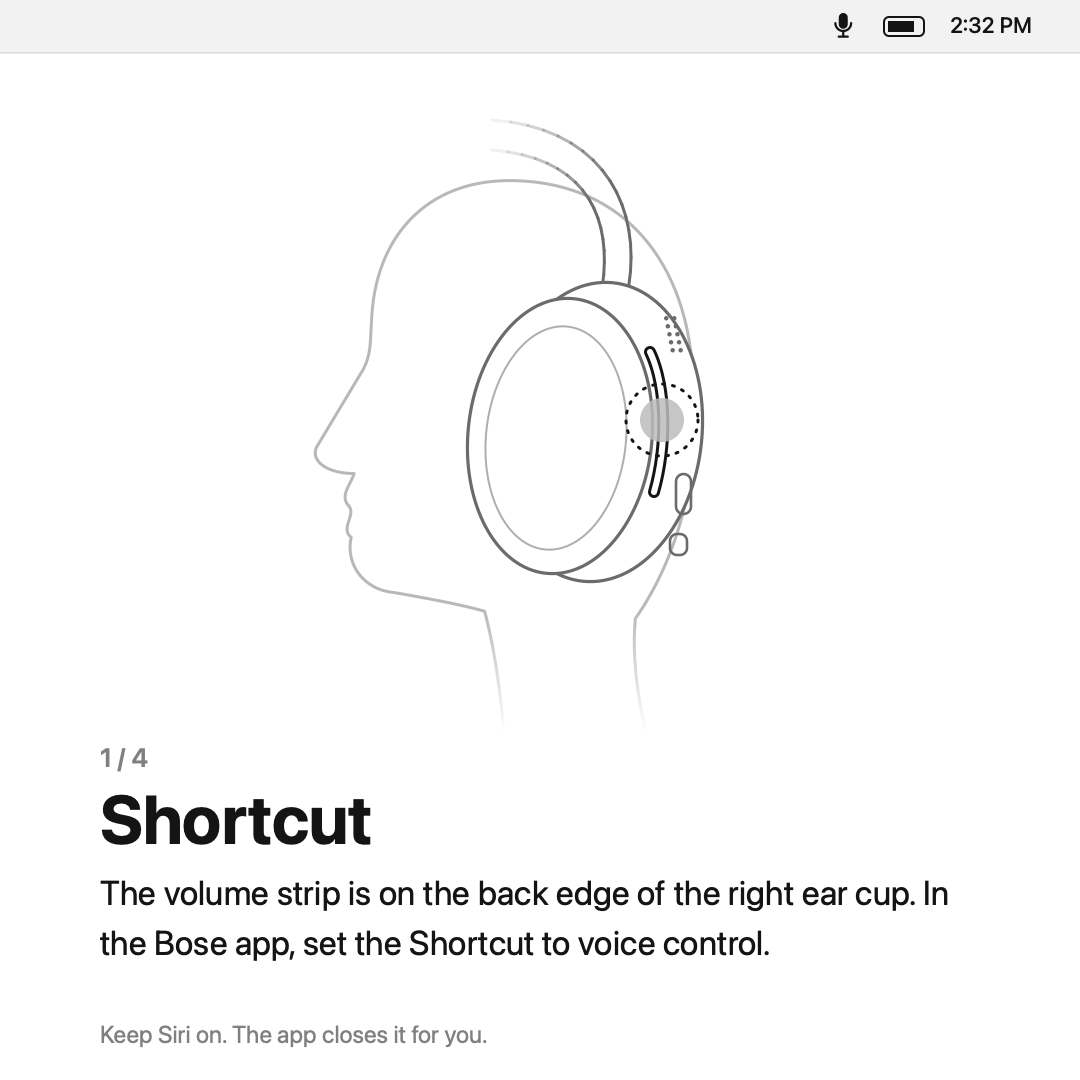
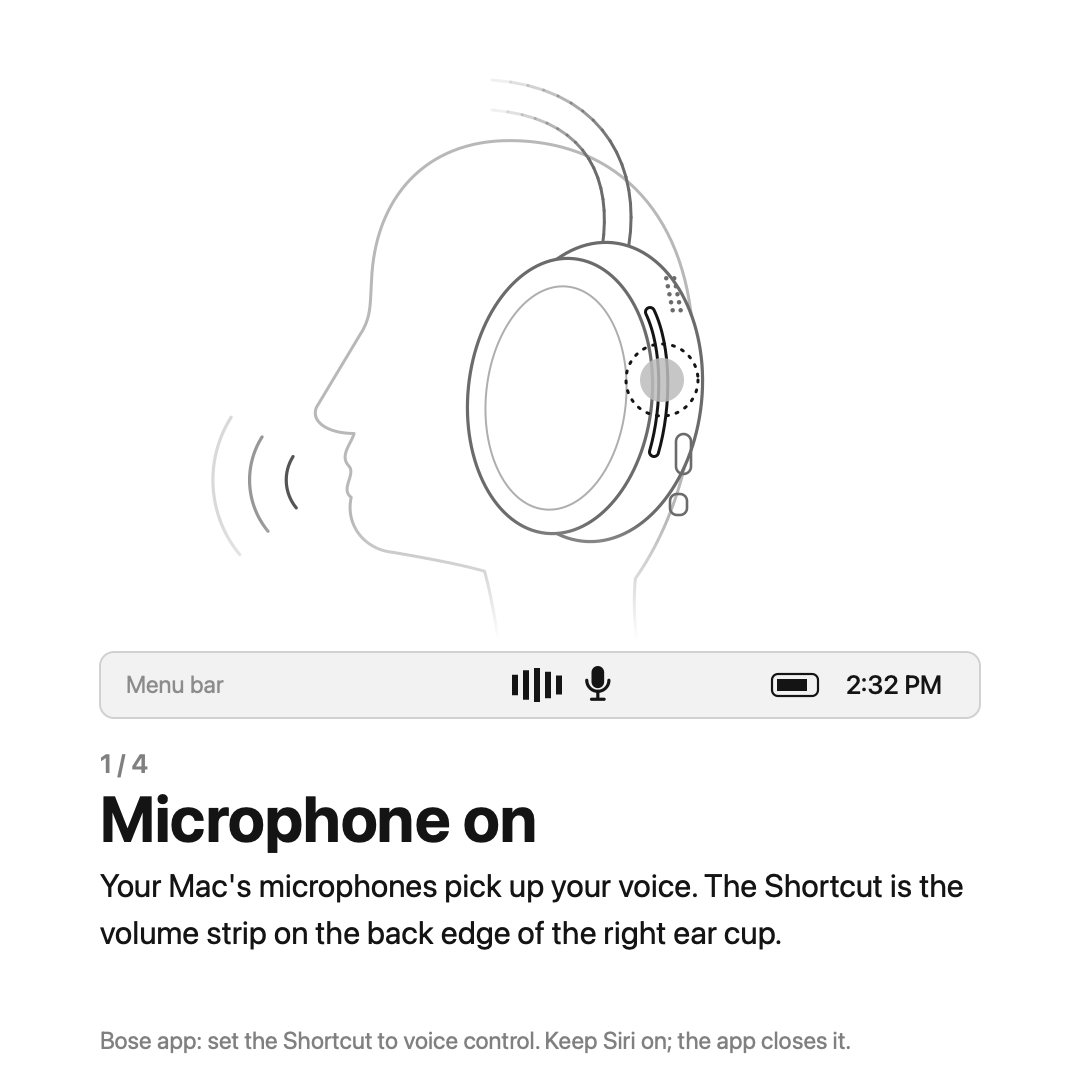
docs: tutorial shows the voice being picked up, then muted
The person keeps talking (voice waves) while the menu bar strip, now
below the art, shows a level meter and the app's mic icon. Holding the
volume strip draws a slash across the icon, MUTE appears and the meter
drops to zero although the voice continues; holding again brings it
back. The hand is now line art generated with Gemini Nano Banana 2,
composited with a transparent background.

Claude-Session: https://claude.ai/code/session_01RRxZNg9SweV9mXnf7GBAeu

diff --git a/scripts/make-tutorial.swift b/scripts/make-tutorial.swift
@@ -22,7 +22,12 @@ struct Scene {
     var cue: Cue? = nil
     var cuePhase: CGFloat = 0
     var pulse: CGFloat = 0       // touch point pulse 0...1
+    var speaking = true          // voice waves from the mouth
+    var time: CGFloat = 0        // drives the voice/level animation
+    var slash: CGFloat = 0       // 0 = mic icon intact, 1 = fully crossed out
     enum Cue { case down, up }
+    /// What the microphone picks up: follows the voice unless muted.
+    var level: CGFloat { speaking ? (1 - slash) * (0.35 + 0.65 * abs(sin(time * 1.7) * sin(time * 0.6 + 1))) : 0 }
 }
 
 let touchPoint = CGPoint(x: 662, y: 420)
@@ -116,24 +121,65 @@ func drawHeadphones(_ ctx: CGContext) {
     stroke(ctx, strip, paper, 6)
 }
 
-/// Line-art hand coming from the right, index finger at `tip`.
-func drawHand(_ ctx: CGContext, tip: CGPoint) {
-    ctx.saveGState()
-    ctx.translateBy(x: tip.x, y: tip.y)
-    ctx.saveGState()
-    ctx.translateBy(x: 160, y: 80)
-    ctx.rotate(by: 0.95)
-    stroke(ctx, CGPath(roundedRect: CGRect(x: 0, y: -50, width: 460, height: 100), cornerWidth: 46, cornerHeight: 46, transform: nil), line, 3, fill: paper)
-    ctx.restoreGState()
-    stroke(ctx, CGPath(roundedRect: CGRect(x: 78, y: -4, width: 148, height: 126), cornerWidth: 50, cornerHeight: 50, transform: nil), line, 3, fill: paper)
-    for y in [38.0, 66.0, 94.0] {
-        let k = CGMutablePath(); k.move(to: CGPoint(x: 92, y: y)); k.addLine(to: CGPoint(x: 150, y: y))
-        stroke(ctx, k, line.withAlphaComponent(0.7), 2.4)
+/// Hand drawn by Gemini "Nano Banana 2" (gemini-3.1-flash-image) as line art on white,
+/// saved in docs/images/tutorial/assets/hand-source.png. The white around it is made transparent
+/// here: flood fill from the borders, with the open forearm end closed first so the inside stays white.
+let handImage: CGImage = {
+    let src = NSImage(contentsOfFile: "docs/images/tutorial/assets/hand-source.png")!
+        .cgImage(forProposedRect: nil, context: nil, hints: nil)!
+    let w = src.width, h = src.height
+    var px = [UInt8](repeating: 0, count: w * h * 4)
+    let ctx = CGContext(data: &px, width: w, height: h, bitsPerComponent: 8, bytesPerRow: w * 4,
+                        space: CGColorSpaceCreateDeviceRGB(), bitmapInfo: CGImageAlphaInfo.premultipliedLast.rawValue)!
+    ctx.draw(src, in: CGRect(x: 0, y: 0, width: w, height: h))
+    var wall = [Bool](repeating: false, count: w * h)
+    for i in 0..<(w * h) where min(px[i * 4], px[i * 4 + 1], px[i * 4 + 2]) < 215 { wall[i] = true }
+    // close the forearm: the two outline ends (found by scanning the source image)
+    let a = CGPoint(x: 933, y: 619), b = CGPoint(x: 831, y: 820)
+    for step in 0...400 {
+        let t = CGFloat(step) / 400
+        let x = Int(a.x + (b.x - a.x) * t), y = Int(a.y + (b.y - a.y) * t)
+        for dy in -5...5 { for dx in -5...5 where (0..<w).contains(x + dx) && (0..<h).contains(y + dy) { wall[(y + dy) * w + x + dx] = true } }
     }
-    stroke(ctx, CGPath(roundedRect: CGRect(x: 104, y: -32, width: 84, height: 30), cornerWidth: 15, cornerHeight: 15, transform: nil), line, 3, fill: paper)
-    stroke(ctx, CGPath(roundedRect: CGRect(x: 0, y: -17, width: 140, height: 34), cornerWidth: 17, cornerHeight: 17, transform: nil), line, 3, fill: paper)
-    stroke(ctx, CGPath(roundedRect: CGRect(x: 8, y: -10, width: 22, height: 20), cornerWidth: 8, cornerHeight: 8, transform: nil), line.withAlphaComponent(0.6), 2)
+    var outside = [Bool](repeating: false, count: w * h)
+    var stack: [Int] = []
+    for x in 0..<w { stack.append(x); stack.append((h - 1) * w + x) }
+    for y in 0..<h { stack.append(y * w); stack.append(y * w + w - 1) }
+    while let i = stack.popLast() {
+        guard !outside[i], !wall[i] else { continue }
+        outside[i] = true
+        let x = i % w, y = i / w
+        if x > 0 { stack.append(i - 1) }; if x < w - 1 { stack.append(i + 1) }
+        if y > 0 { stack.append(i - w) }; if y < h - 1 { stack.append(i + w) }
+    }
+    for i in 0..<(w * h) where outside[i] { px[i * 4] = 0; px[i * 4 + 1] = 0; px[i * 4 + 2] = 0; px[i * 4 + 3] = 0 }
+    return CGContext(data: &px, width: w, height: h, bitsPerComponent: 8, bytesPerRow: w * 4,
+                     space: CGColorSpaceCreateDeviceRGB(), bitmapInfo: CGImageAlphaInfo.premultipliedLast.rawValue)!.makeImage()!
+}()
+let handTip = CGPoint(x: 129, y: 372)   // index fingertip in the source image
+let handScale: CGFloat = 0.5
+
+func drawHand(_ ctx: CGContext, tip: CGPoint) {
+    let size = CGSize(width: CGFloat(handImage.width) * handScale, height: CGFloat(handImage.height) * handScale)
+    let origin = CGPoint(x: tip.x - handTip.x * handScale, y: tip.y - handTip.y * handScale)
+    ctx.saveGState()
+    ctx.translateBy(x: origin.x, y: origin.y + size.height)   // the context is flipped: draw images upright
+    ctx.scaleBy(x: 1, y: -1)
+    ctx.interpolationQuality = .high
+    ctx.draw(handImage, in: CGRect(origin: .zero, size: size))
     ctx.restoreGState()
+}
+
+/// Voice coming out of the mouth: arcs that travel outwards and fade.
+func drawVoice(_ ctx: CGContext, time: CGFloat) {
+    let mouth = CGPoint(x: 330, y: 520)
+    for i in 0..<3 {
+        let phase = (time * 0.9 + CGFloat(i) / 3).truncatingRemainder(dividingBy: 1)
+        let r = 28 + phase * 110
+        let arc = CGMutablePath()
+        arc.addArc(center: mouth, radius: r, startAngle: .pi * 0.78, endAngle: .pi * 1.18, clockwise: false)
+        stroke(ctx, arc, ink.withAlphaComponent(0.85 * (1 - phase)), 3.2)
+    }
 }
 
 func drawTouchPoint(_ ctx: CGContext, scene: Scene) {
@@ -160,7 +206,7 @@ func drawCue(_ ctx: CGContext, _ cue: Scene.Cue, phase: CGFloat) {
     }
 }
 
-func micGlyph(_ ctx: CGContext, origin: CGPoint, h: CGFloat, slashed: Bool) {
+func micGlyph(_ ctx: CGContext, origin: CGPoint, h: CGFloat, slash: CGFloat) {
     let s = h / 24
     ctx.saveGState()
     ctx.translateBy(x: origin.x, y: origin.y)
@@ -173,31 +219,37 @@ func micGlyph(_ ctx: CGContext, origin: CGPoint, h: CGFloat, slashed: Bool) {
     ctx.strokePath()
     ctx.move(to: CGPoint(x: 10, y: 16)); ctx.addLine(to: CGPoint(x: 10, y: 21))
     ctx.move(to: CGPoint(x: 6, y: 21)); ctx.addLine(to: CGPoint(x: 14, y: 21)); ctx.strokePath()
-    if slashed {
-        ctx.setStrokeColor(paper.cgColor); ctx.setLineWidth(4.4)
-        ctx.move(to: CGPoint(x: 2, y: 1)); ctx.addLine(to: CGPoint(x: 18, y: 21)); ctx.strokePath()
-        ctx.setStrokeColor(ink.cgColor); ctx.setLineWidth(2.2)
-        ctx.move(to: CGPoint(x: 2, y: 1)); ctx.addLine(to: CGPoint(x: 18, y: 21)); ctx.strokePath()
+    if slash > 0 {
+        let end = CGPoint(x: 1 + 18 * slash, y: 0 + 22 * slash)
+        ctx.setStrokeColor(NSColor(white: 0.95, alpha: 1).cgColor); ctx.setLineWidth(4.6)
+        ctx.move(to: CGPoint(x: 1, y: 0)); ctx.addLine(to: end); ctx.strokePath()
+        ctx.setStrokeColor(ink.cgColor); ctx.setLineWidth(2.3)
+        ctx.move(to: CGPoint(x: 1, y: 0)); ctx.addLine(to: end); ctx.strokePath()
     }
     ctx.restoreGState()
 }
 
-/// macOS-style menu bar across the top, showing the app's status item.
-func drawMenuBar(_ ctx: CGContext, muted: Bool) {
-    ctx.setFillColor(NSColor(white: 0.95, alpha: 1).cgColor)
-    ctx.fill(CGRect(x: 0, y: 0, width: W, height: 52))
-    ctx.setFillColor(NSColor(white: 0.85, alpha: 1).cgColor)
-    ctx.fill(CGRect(x: 0, y: 52, width: W, height: 1.5))
-    text("2:32 PM", at: CGPoint(x: 950, y: 12), size: 22, weight: .medium, color: ink, width: 120)
-    stroke(ctx, CGPath(roundedRect: CGRect(x: 884, y: 17, width: 40, height: 19), cornerWidth: 5, cornerHeight: 5, transform: nil), ink, 2)
-    ctx.setFillColor(ink.cgColor); ctx.fill(CGRect(x: 888, y: 21, width: 26, height: 11))
-    if muted {
-        stroke(ctx, CGPath(roundedRect: CGRect(x: 736, y: 9, width: 128, height: 35), cornerWidth: 9, cornerHeight: 9, transform: nil),
-               ink, 2, fill: paper)
-        micGlyph(ctx, origin: CGPoint(x: 746, y: 13), h: 27, slashed: true)
-        text("MUTE", at: CGPoint(x: 782, y: 12), size: 22, weight: .heavy, color: ink, width: 80)
-    } else {
-        micGlyph(ctx, origin: CGPoint(x: 832, y: 13), h: 27, slashed: false)
+/// A macOS menu bar strip below the art, showing the app's status item up close.
+func drawMenuBar(_ ctx: CGContext, scene: Scene) {
+    let bar = CGRect(x: 100, y: 652, width: 880, height: 66)
+    stroke(ctx, CGPath(roundedRect: bar, cornerWidth: 14, cornerHeight: 14, transform: nil), NSColor(white: 0.82, alpha: 1), 2,
+           fill: NSColor(white: 0.95, alpha: 1))
+    text("Menu bar", at: CGPoint(x: 126, y: 670), size: 24, weight: .regular, color: NSColor(white: 0.55, alpha: 1), width: 200)
+    text("2:32 PM", at: CGPoint(x: 846, y: 669), size: 26, weight: .medium, color: ink, width: 120)
+    stroke(ctx, CGPath(roundedRect: CGRect(x: 772, y: 674, width: 46, height: 22), cornerWidth: 6, cornerHeight: 6, transform: nil), ink, 2.2)
+    ctx.setFillColor(ink.cgColor); ctx.fill(CGRect(x: 777, y: 679, width: 30, height: 12))
+
+    // the app's status item: level meter (what the mic picks up) + mic icon, crossed out when muted
+    let level = scene.level
+    for i in 0..<5 {
+        let weight: [CGFloat] = [0.55, 0.85, 1.0, 0.75, 0.5]
+        let hBar = 4 + 30 * level * weight[i]
+        ctx.setFillColor((level > 0.01 ? ink : NSColor(white: 0.7, alpha: 1)).cgColor)
+        ctx.fill(CGRect(x: 512 + CGFloat(i) * 11, y: 685 - hBar / 2, width: 6, height: hBar))
+    }
+    micGlyph(ctx, origin: CGPoint(x: 582, y: 666), h: 38, slash: scene.slash)
+    if scene.slash > 0 {
+        text("MUTE", at: CGPoint(x: 628, y: 668), size: 28, weight: .heavy, color: ink.withAlphaComponent(scene.slash), width: 90)
     }
 }
 
@@ -210,10 +262,10 @@ func text(_ s: String, at p: CGPoint, size: CGFloat, weight: NSFont.Weight, colo
 }
 
 let steps: [(String, String)] = [
-    ("Shortcut", "The volume strip is on the back edge of the right ear cup. In the Bose app, set the Shortcut to voice control."),
-    ("Touch and hold", "Touch the volume strip and hold for about 2 seconds. Don't swipe: swiping changes the volume."),
-    ("Microphones muted", "A falling tone plays and the menu bar shows MUTE. Every microphone on the Mac is muted."),
-    ("Repeat to unmute", "Touch and hold again: a rising tone plays and the microphones go back to how they were."),
+    ("Microphone on", "Your Mac's microphones pick up your voice. The Shortcut is the volume strip on the back edge of the right ear cup."),
+    ("Touch and hold", "Hold the volume strip for about 2 seconds. Don't swipe: swiping changes the volume."),
+    ("Muted", "The microphone icon is crossed out and nothing is picked up, even while you talk. A falling tone confirms it."),
+    ("Touch and hold again", "A rising tone plays and the microphones hear you again."),
 ]
 
 func render(_ scene: Scene, scale: CGFloat) -> CGImage {
@@ -230,8 +282,10 @@ func render(_ scene: Scene, scale: CGFloat) -> CGImage {
 
     // illustration panel; fades out at the bottom so the neck does not run into the text
     ctx.saveGState()
-    ctx.addRect(CGRect(x: 0, y: 53, width: W, height: 680)); ctx.clip()
+    ctx.addRect(CGRect(x: 0, y: 0, width: W, height: 640)); ctx.clip()
+    ctx.translateBy(x: 0, y: -40)   // art sits a little higher now that the menu bar is below it
     stroke(ctx, headPath(), faint, 3)
+    if scene.speaking { drawVoice(ctx, time: scene.time) }
     drawHeadphones(ctx)
     if let cue = scene.cue { drawCue(ctx, cue, phase: scene.cuePhase) }
     drawTouchPoint(ctx, scene: scene)
@@ -242,16 +296,16 @@ func render(_ scene: Scene, scale: CGFloat) -> CGImage {
     let fade = CGGradient(colorsSpace: CGColorSpaceCreateDeviceRGB(), colors: [
         NSColor(white: 1, alpha: 0).cgColor, NSColor(white: 1, alpha: 1).cgColor,
     ] as CFArray, locations: [0, 1])!
-    ctx.drawLinearGradient(fade, start: CGPoint(x: 0, y: 610), end: CGPoint(x: 0, y: 733), options: [])
+    ctx.drawLinearGradient(fade, start: CGPoint(x: 0, y: 560), end: CGPoint(x: 0, y: 681), options: [])
     ctx.restoreGState()
 
-    drawMenuBar(ctx, muted: scene.muted)
+    drawMenuBar(ctx, scene: scene)
 
     let (title, body) = steps[scene.step - 1]
-    text("\(scene.step) / \(steps.count)", at: CGPoint(x: 100, y: 742), size: 26, weight: .semibold, color: NSColor(white: 0.5, alpha: 1), width: 200)
-    text(title, at: CGPoint(x: 100, y: 778), size: 68, weight: .bold, color: ink, width: 900)
-    text(body, at: CGPoint(x: 100, y: 872), size: 34, weight: .regular, color: ink, width: 880)
-    text("Keep Siri on. The app closes it for you.", at: CGPoint(x: 100, y: 1020), size: 24, weight: .regular,
+    text("\(scene.step) / \(steps.count)", at: CGPoint(x: 100, y: 748), size: 26, weight: .semibold, color: NSColor(white: 0.5, alpha: 1), width: 200)
+    text(title, at: CGPoint(x: 100, y: 780), size: 64, weight: .bold, color: ink, width: 900)
+    text(body, at: CGPoint(x: 100, y: 866), size: 32, weight: .regular, color: ink, width: 880)
+    text("Bose app: set the Shortcut to voice control. Keep Siri on; the app closes it.", at: CGPoint(x: 100, y: 1026), size: 24, weight: .regular,
          color: NSColor(white: 0.5, alpha: 1), width: 880)
 
     NSGraphicsContext.restoreGraphicsState()
@@ -265,28 +319,30 @@ func writePNG(_ image: CGImage, to path: String) {
 }
 
 let slides: [Scene] = [
-    Scene(step: 1),
-    Scene(step: 2, finger: 1, hold: 0.65),
-    Scene(step: 3, muted: true, cue: .down, cuePhase: 1),
-    Scene(step: 4, finger: 1, hold: 0.65, muted: true),
+    Scene(step: 1, time: 0.9),
+    Scene(step: 2, finger: 1, hold: 0.65, time: 1.6),
+    Scene(step: 3, muted: true, cue: .down, cuePhase: 1, time: 2.2, slash: 1),
+    Scene(step: 4, finger: 1, hold: 0.65, muted: true, time: 3.1, slash: 1),
 ]
 
 func timeline() -> [(Scene, Double)] {
     var f: [(Scene, Double)] = []
     let d = 0.1
-    for i in 0..<16 { f.append((Scene(step: 1, pulse: 0.5 + 0.5 * sin(CGFloat(i) / 16 * .pi * 4)), d)) }
-    for i in 0..<8 { f.append((Scene(step: 2, finger: CGFloat(i + 1) / 8), d)) }
-    for i in 0...20 { f.append((Scene(step: 2, finger: 1, hold: CGFloat(i) / 20), d)) }
-    for i in 0..<22 {
-        f.append((Scene(step: 3, finger: max(0, 1 - CGFloat(i) / 7), muted: true, cue: .down, cuePhase: min(1, CGFloat(i) / 12)), d))
+    var t: CGFloat = 0
+    func add(_ s: Scene, _ delay: Double = d) { var s = s; s.time = t; f.append((s, delay)); t += CGFloat(delay) }
+    for i in 0..<30 { add(Scene(step: 1, pulse: 0.5 + 0.5 * sin(CGFloat(i) / 30 * .pi * 6))) }
+    for i in 0..<8 { add(Scene(step: 2, finger: CGFloat(i + 1) / 8)) }
+    for i in 0...20 { add(Scene(step: 2, finger: 1, hold: CGFloat(i) / 20)) }
+    for i in 0..<34 {   // slash draws in, falling tone, hand leaves, voice continues but nothing is picked up
+        add(Scene(step: 3, finger: max(0, 1 - CGFloat(i) / 7), muted: true, cue: .down,
+                  cuePhase: min(1, CGFloat(i) / 12), slash: min(1, CGFloat(i + 1) / 7)))
     }
-    f.append((Scene(step: 3, muted: true, cue: .down, cuePhase: 1), 1.2))
-    for i in 0..<8 { f.append((Scene(step: 4, finger: CGFloat(i + 1) / 8, muted: true), d)) }
-    for i in 0...20 { f.append((Scene(step: 4, finger: 1, hold: CGFloat(i) / 20, muted: true), d)) }
-    for i in 0..<22 {
-        f.append((Scene(step: 4, finger: max(0, 1 - CGFloat(i) / 7), muted: false, cue: .up, cuePhase: min(1, CGFloat(i) / 12)), d))
+    for i in 0..<8 { add(Scene(step: 4, finger: CGFloat(i + 1) / 8, muted: true, slash: 1)) }
+    for i in 0...20 { add(Scene(step: 4, finger: 1, hold: CGFloat(i) / 20, muted: true, slash: 1)) }
+    for i in 0..<30 {   // slash goes away, rising tone, the mic picks up the voice again
+        add(Scene(step: 4, finger: max(0, 1 - CGFloat(i) / 7), muted: false, cue: .up,
+                  cuePhase: min(1, CGFloat(i) / 12), slash: max(0, 1 - CGFloat(i + 1) / 7)))
     }
-    f.append((Scene(step: 4, muted: false, cue: .up, cuePhase: 1), 1.5))
     return f
 }
 

diff --git a/README.md b/README.md
@@ -33,7 +33,7 @@ Then set up the headset and the Mac:
   <img src="docs/images/tutorial/bose-shortcut.gif" alt="Touch and hold the volume strip on the right ear cup for about 2 s to mute; repeat to unmute" width="540">
 </p>
 
-Still slides: [1](docs/images/tutorial/slide-1.png) · [2](docs/images/tutorial/slide-2.png) · [3](docs/images/tutorial/slide-3.png) · [4](docs/images/tutorial/slide-4.png). They are drawn by `scripts/make-tutorial.swift`; run it with `slides` or `gif`.
+Still slides: [1](docs/images/tutorial/slide-1.png) · [2](docs/images/tutorial/slide-2.png) · [3](docs/images/tutorial/slide-3.png) · [4](docs/images/tutorial/slide-4.png). They are drawn by `scripts/make-tutorial.swift`; run it with `slides` or `gif`. The hand was generated once with Gemini "Nano Banana 2" (`gemini-3.1-flash-image`) as line art and is stored in `docs/images/tutorial/assets/hand-source.png`. The script makes its background transparent; everything else is drawn in code.
 
 | Trigger | How |
 |---|---|
